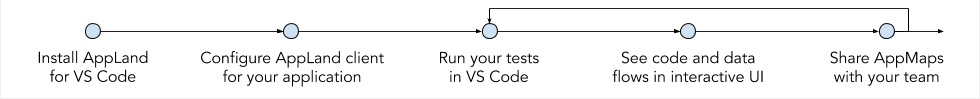
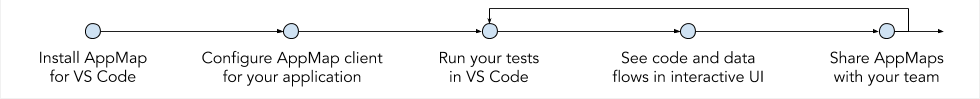
Rename extension and views in README.md (#99)
* Renaming of AppLand, Component D. and Flow D.

* New extension name

Changed region(s): [[0.1837, 0.5152, 0.398, 0.697], [0.0306, 0.5152, 0.1531, 0.697]]

diff --git a/README.md b/README.md
@@ -1,6 +1,6 @@
-# AppLand for Visual Studio Code
+# AppMap for Visual Studio Code
 
-AppLand for Visual Studio Code is a self-contained extension that automatically records and diagrams software behavior by executing test cases.  Now you can walk through automatically generated white-board style diagrams right in your IDE without any effort.  AppLand helps developers 
+AppMap for Visual Studio Code is a self-contained extension that automatically records and diagrams software behavior by executing test cases.  Now you can walk through automatically generated white-board style diagrams right in your IDE without any effort.  AppMap helps developers 
 
 - Onboard to code architecture, with no extra work for the team 
 - Conduct code and design reviews using live and accurate data
@@ -8,12 +8,12 @@ AppLand for Visual Studio Code is a self-contained extension that automatically 
 
 Each interactive diagram links directly to the source code, and the information is easy to share.
 
-![AppLand diagrams](./doc/media/002.gif "AppLand diagrams")
+![AppMap diagrams](./doc/media/002.gif "AppMap diagrams")
 
 ## Summary of features
 
-- UML-inspired Component diagrams that display key application components and how they are interrelated during execution 
-- Execution trace diagrams that visualize code and data flows
+- UML-inspired Depenency Map that displays key application components and how they are interrelated during execution 
+- Execution Trace diagrams that visualize code and data flows
 - List of Webservices generated automatically from test cases
 - List of SQL queries generated automatically from test cases
 - Search for class, package or function
@@ -26,14 +26,14 @@ Join us on [Discord](https://discord.com/invite/N9VUap6) or [GitHub](https://git
 
 # Getting started
 
-AppLand records behavior of running code as [AppMaps](https://github.com/applandinc/appmap) during test execution and visualizes them in interactive diagrams.
+AppMap records behavior of running code as [AppMap files](https://github.com/applandinc/appmap) during test execution and visualizes them in interactive diagrams.
 
 ![Getting started steps](./doc/media/000.png "Getting started steps")
 
 
 ## Quickstart instructions
 
-1. Install through [VS Code extensions](https://marketplace.visualstudio.com/items?itemName=AppLandInc.appland)
+1. Install through [VS Code extensions](https://marketplace.visualstudio.com/items?itemName=AppLandInc.appmap)
 2. To generate AppMap files, an AppMap client must be installed and configured for your project. If it's not already, you can find the language client for your project along with setup instructions on GitHub:
     - [AppMap client for Ruby](https://github.com/applandinc/appmap-ruby)
     - [AppMap client for Java](https://github.com/applandinc/appmap-java)
@@ -45,17 +45,17 @@ AppLand records behavior of running code as [AppMaps](https://github.com/appland
  - Java: JUnit framework
 
 
-## Using the AppMap diagram
+## Using the AppMap diagrams
 
-Use AppLand extension command `AppLand: Open most recently modified AppMap` to open the AppMap file that has most recently changed. When you have run a single test, this will be the AppMap for that test.
+Use AppMap extension command `AppMap: Open most recently modified AppMap` to open the AppMap file that has most recently changed. When you have run a single test, this will be the AppMap for that test.
 
 ![Open most recently modified AppMap](./doc/media/007.png "Open most recently modified AppMap")
 
-Alternatively, open any generated AppMap file directly from the file tree navigator.
+Alternatively, open any generated `.appmap.json` file directly from the file tree navigator.
 
 Depending on the test run and functionality covered, you should see a viewer with a diagram similar to this one:
 
-![Component diagram](./doc/media/001.gif "Component diagram")
+![Dependency Map](./doc/media/001.gif "Dependency Map")
 
 ### Details
 The “Details” panel on the left hand side will be used when you click on something, such as a package or class. 
@@ -63,16 +63,17 @@ The “Details” panel on the left hand side will be used when you click on som
 ### Filters
 “Filters” is used to type in the name of a particular object, such as a class, and focus the diagrams on that class. When you are brand new to the code base, you may not have any particular class names in mind, but as you use this tool in the future, perhaps to troubleshoot a bug, you may have a better idea of exactly what you want to look at, and Filters can help with that. 
 
-### Components
+### Dependency Map
 This is a view of the code, grouped into classes and packages, that was actually executed by the test case. When a class calls another class, the result is a link (edge) connecting them, with an arrow denoting the call direction. Keep in mind, this data isn’t coming just from a static analysis of the dependencies in the code (e.g. import and require statements). It’s coming from the actual execution trace through the code base. 
 
-SQL queries are denoted by the database icon. You can get specific details about SQL by switching to the Events view.
-### Events
-Click on a class in the Components view, then choose one of the functions, then choose an Event in which that function is used.
+SQL queries are denoted by the database icon. You can get specific details about SQL by switching to the Trace view.
 
-Clicking on the event will open the Events view. 
+### Trace
+Click on a class in the Dependency Map, then choose one of the functions, then choose an Event in which that function is used, then click on "Show in Trace view"
 
-Each node (box) in the Events view represents a specific HTTP server request, function call, or SQL query which occurred in the test case. You can think of it like having the data from a debugger, but you can jump to any location in the call graph. The Events view flows from left to right and top to bottom as the program moves forward in time. 
+This will open the Trace view. 
+
+Each node (box) in the Trace view represents a specific HTTP server request, function call, or SQL query which occurred in the test case. You can think of it like having the data from a debugger, but you can jump to any location in the call graph. The Trace view flows from left to right and top to bottom as the program moves forward in time. 
 
 
 ### Interacting with the diagrams
@@ -82,10 +83,9 @@ The diagrams are fully interactive; they aren’t static pictures like UML. You 
 - Click on classes to view detailed information about that class.
 - List the functions of a class which are used by the test case.
 - Explore callers and callees.
-- View variable names and values at any point in the code flow, clicking on a variable in the Events view
+- View variable names and values at any point in the code flow, clicking on a variable in the Trace view
 - View SQL queries.
-- Open source code right to the line of any particular function, by clicking on “Source location”
-
+- Open source code right to the line of any particular function, by clicking on “View source"
 
 ## Sharing
 
@@ -102,28 +102,28 @@ Here are some tips:
 
 ### Share AppMap files for viewing in VSCode
 
-Generated AppMap files can be viewed by others with the AppLand extension. So, one option for sharing is to simply send the `appmap.json` file to your colleague.
+Generated AppMap files can be viewed by others with the AppMap extension. So, one option for sharing is to simply send the `appmap.json` file to your colleague.
 
 
 ### Share AppMap files in the SaaS [https://app.land](https://app.land) sandbox
 [App.Land](https://app.land) is a free sandbox that can be rapidly used as an AppMap repository and as a collaboration and sharing tool for your team. 
 
 1. [Sign-up](https://app.land) for app.land, create an account for your organization and invite others to join
-1. [Follow these instructions](https://app.land/setup/cli) to install CLI tools and upload your AppMaps to the server
+1. [Follow these instructions](https://app.land/setup/cli) to install CLI tools and upload your AppMap files to the server
 2. Open and share your AppMaps (called scenarios in the app.land UI) from the UI. You can make the shareable links private - accessible for members of your organization only, or public.
 
 ## Advanced configuration
 
 ### Refine your AppMaps for more impactful results
 
-Recording large, complex applications can lead to acquisition of extraneous utility details that are not valuable for understanding how the application architecture works. If your AppMaps get too large, fine-tune the instrumentation to only record valuable classes and method calls in the `appmap.yml` configuration file:
+Recording large, complex applications can lead to acquisition of extraneous utility details that are not valuable for understanding how the application architecture works. If your AppMaps get too large, fine-tune the `appmap.yml` configuration file:
 
 1. [Download and install AppLand CLI tools](https://app.land/setup/cli#install-command-line-tools) (only follow step 1 in the instructions)
 2. [Refine your AppMap configuration](https://github.com/applandinc/appland-cli/blob/master/doc/refine-appmaps.md)
 
 Then re-run the tests to record new AppMap files with the updated configuration.
 
-### Share customizations with your team
+### Share AppMap customizations with your team
 
 Simply share your `appmap.yml` configuration file with others. Use of a git repository is recommended for tracking and sharing updates among members of your team. 
 
@@ -131,6 +131,6 @@ Simply share your `appmap.yml` configuration file with others. Use of a git repo
 
 AppLand has other solutions which help you profile and automatically diagram software through dynamic analysis, without relying on test cases.  We have also hosted analytics solutions to analyze code architecture over entire codebases and across multiple releases.  To learn more about these solutions go to [AppLand.com](https://appland.com/) or [contact us](http://info@app.land).
 
-# About AppLand
+# About AppMap
 
-How AppLand technology works: [appland.org](https://appland.org).
+How AppMap technology works: [appland.org](https://appland.org).
